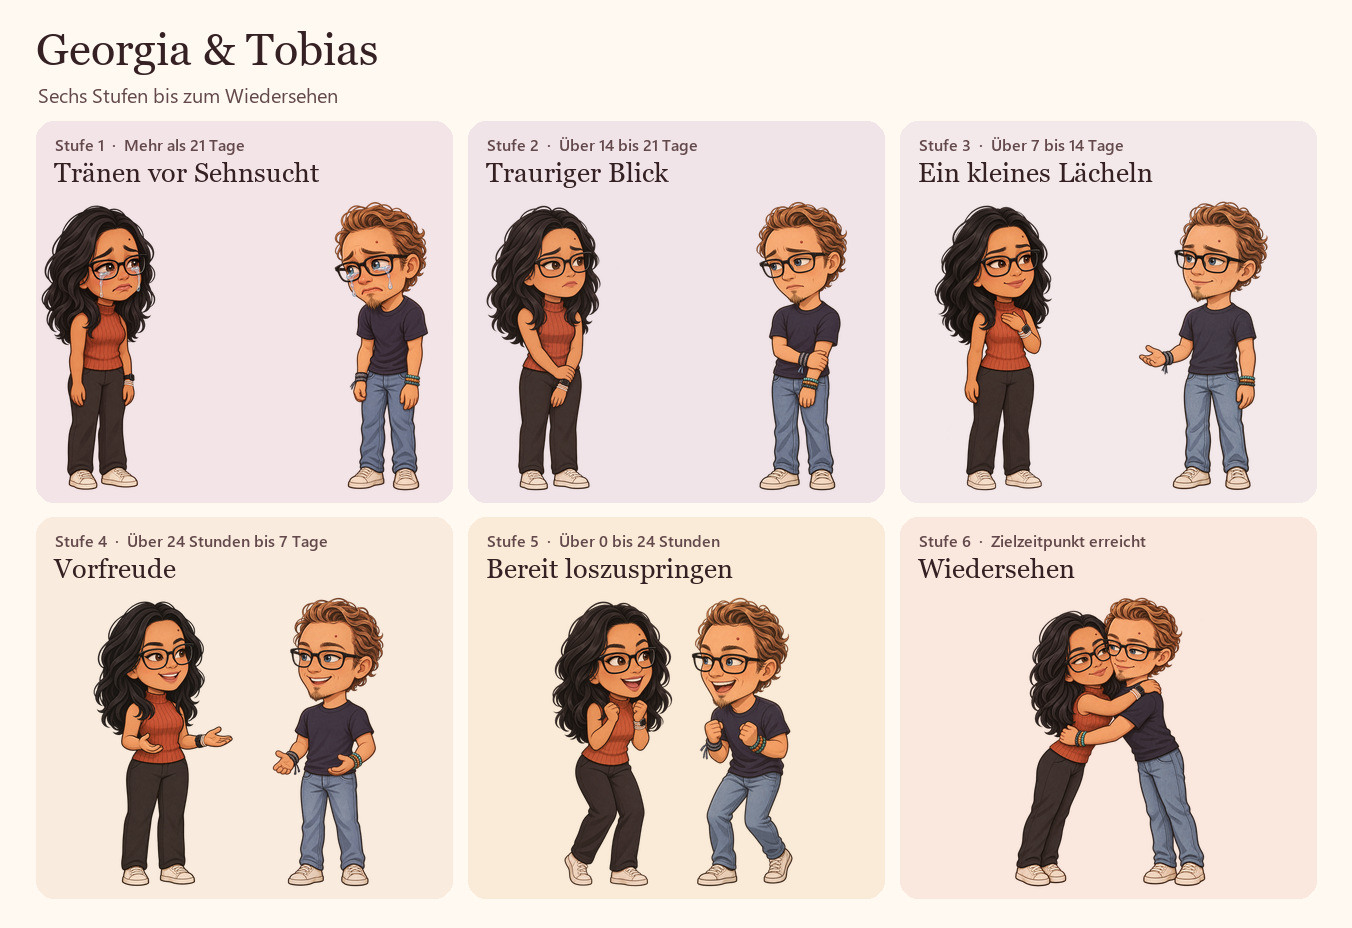
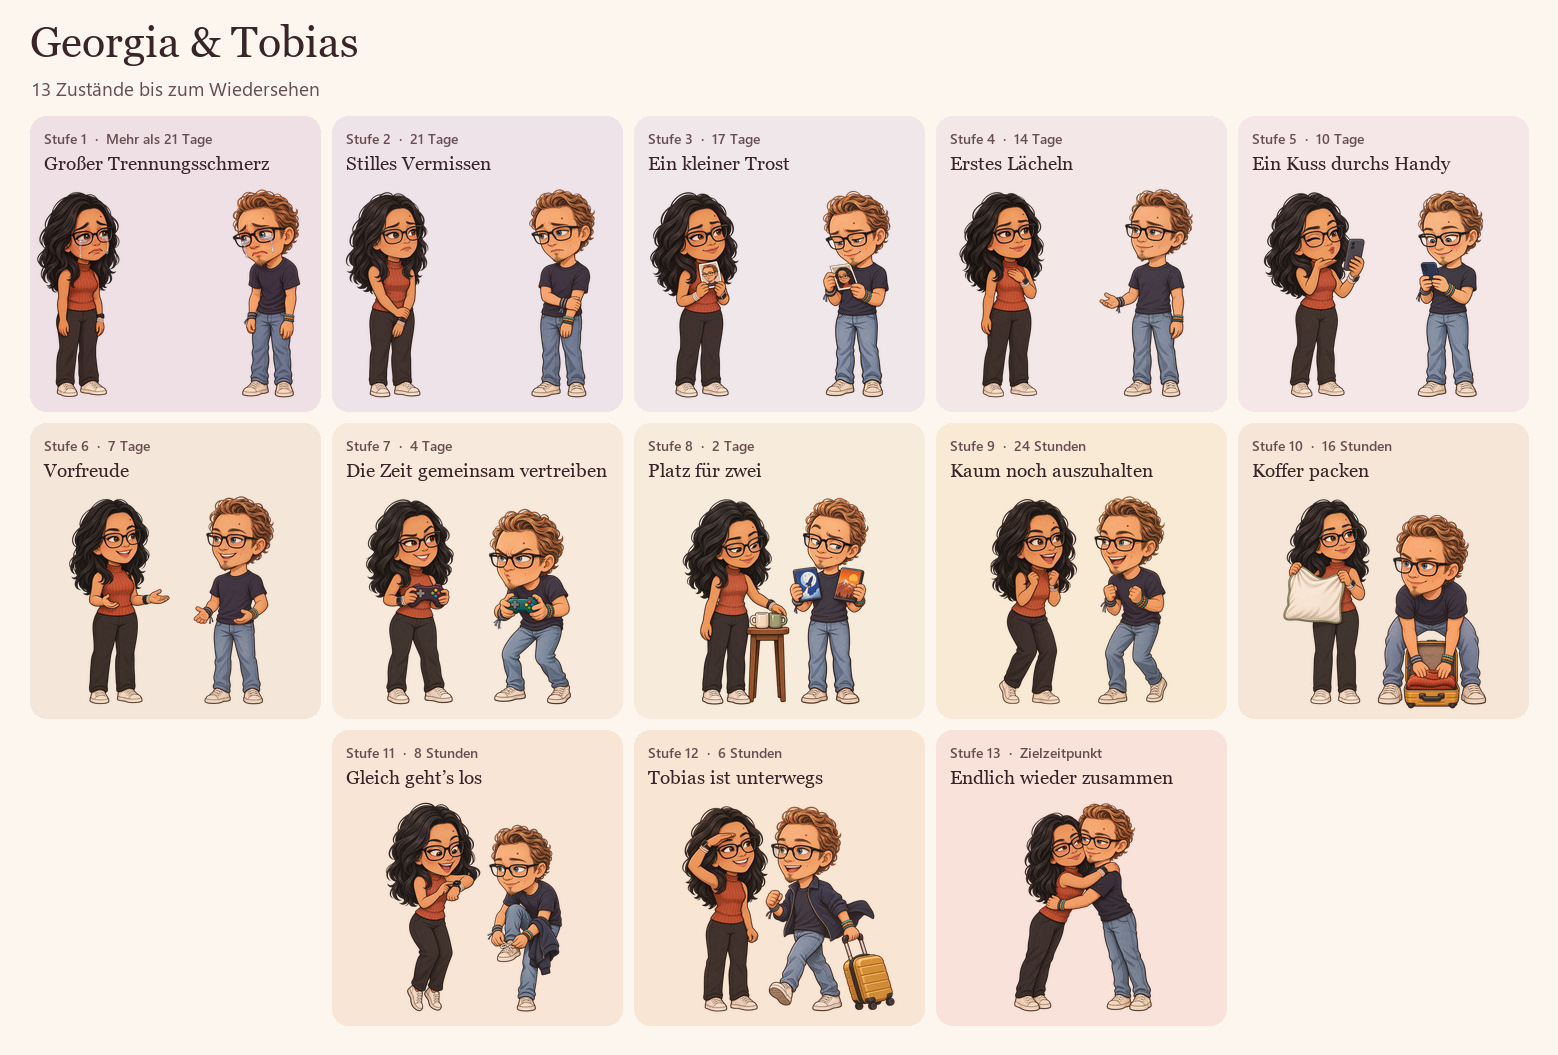
Extend reunion countdown to 13 illustration stages (#5)

diff --git a/assets/characters/README.md b/assets/characters/README.md
@@ -1,29 +1,39 @@
 # Georgia und Tobias
 
-Die elf transparenten PNGs in `stages/` verwenden die freigegebenen Figuren Georgia G3-A und Tobias T1-A aus `references/`. Die [gemeinsame Vorschau](vorschau.jpg) zeigt die sechs Stufen aus [Issue #2](https://github.com/venomenon328/ldr-countdown/issues/2).
+Die [gemeinsame Vorschau](vorschau.jpg) zeigt die 13 Zustände aus [Issue #5](https://github.com/venomenon328/ldr-countdown/issues/5). Für die Einzelbilder in `stages/` gilt der Dateistamm aus der Tabelle mit `-georgia.png` oder `-tobias.png` als Endung.
 
-| Stufe | Restzeit | Dateien |
-| --- | --- | --- |
-| 1 | Mehr als 21 Tage | `01-georgia.png`, `01-tobias.png` |
-| 2 | Mehr als 14 bis einschließlich 21 Tage | `02-georgia.png`, `02-tobias.png` |
-| 3 | Mehr als 7 bis einschließlich 14 Tage | `03-georgia.png`, `03-tobias.png` |
-| 4 | Mehr als 24 Stunden bis einschließlich 7 Tage | `04-georgia.png`, `04-tobias.png` |
-| 5 | Mehr als 0 bis einschließlich 24 Stunden | `05-georgia.png`, `05-tobias.png` |
-| 6 | Zielzeitpunkt erreicht oder überschritten | `06-wiedersehen.png` |
+Jede Stufe beginnt beim Erreichen ihrer Schwelle und läuft bis zum Beginn der nächsten. Maßgeblich ist die ungerundete Restzeit, ein Tag entspricht 24 Stunden.
+
+| Stufe | Eintritt bei Restzeit | Motiv | Dateistamm bzw. Paarbild |
+| --- | --- | --- | --- |
+| 1 | Mehr als 21 Tage | Großer Trennungsschmerz | `01` |
+| 2 | 21 Tage | Stilles Vermissen | `02` |
+| 3 | 17 Tage | Ein kleiner Trost | `03-foto` |
+| 4 | 14 Tage | Erstes Lächeln | `03` |
+| 5 | 10 Tage | Ein Kuss durchs Handy | `05-handykuss` |
+| 6 | 7 Tage | Vorfreude | `04` |
+| 7 | 4 Tage | Die Zeit gemeinsam vertreiben | `07-controller` |
+| 8 | 2 Tage | Platz für zwei | `08-platz-fuer-zwei` |
+| 9 | 24 Stunden | Kaum noch auszuhalten | `05` |
+| 10 | 16 Stunden | Koffer packen | `10-kofferpacken` |
+| 11 | 8 Stunden | Gleich geht’s los | `11-aufbruch` |
+| 12 | 6 Stunden | Tobias ist unterwegs | `12-anreise` |
+| 13 | 0 oder abgelaufen | Endlich wieder zusammen | `06-wiedersehen.png` |
 
 ## Platzierung auf der Website
 
-Alle PNGs sind 432 × 624 px groß. Die Koordinaten beziehen sich auf die linke obere Bildecke. Georgia steht links und Tobias rechts. Beide Einzelbilder werden am Fußpunkt `(216, 602)` positioniert. Beim Stufenwechsel bleiben die beiden Fußpunkte an ihrer aktuellen Position.
+Alle Stufen-PNGs sind 432 × 624 px groß. Die Koordinaten beziehen sich auf die linke obere Bildecke. Georgia steht links und Tobias rechts. Beide Einzelbilder werden am Fußpunkt `(216, 602)` positioniert. Bei angehobenem Fuß zählt der Bodenkontakt des Standbeins. Beim Stufenwechsel bleiben die beiden Fußpunkte an ihrer aktuellen Position.
 
 Die Paarpose wird mit `(216, 602)` am Treffpunkt ausgerichtet. Dort liegen die Fußpunkte Georgias und Tobias’ im Paarbild bei `(80, 602)` und `(351, 602)`. Die beiden Einzelfiguren laufen bis zu diesen Positionen. Relativ zum Treffpunkt sind das horizontal `−136` und `+135` Bildpixel, jeweils multipliziert mit demselben Skalierungsfaktor wie die Bilder. Auch an diesen Positionen liegt zwischen den Silhouetten der Einzelfiguren ein sichtbarer Abstand.
 
 ## Bildgenerierung
 
-Beide freigegebenen PNGs dienten in jeder ImageGen-Anfrage als direkte visuelle Referenzen. Die Prompts verlangten Ganzkörperzeichnungen in warmer, fein konturierter Chibi-Zeichenweise mit derselben Kleidung, demselben Schmuck, denselben Proportionen, leichtem Lichteinfall von links oben und echter Transparenz.
+[Georgia G3-A](references/georgia.png) und [Tobias T1-A](references/tobias.png) dienten dem integrierten ImageGen in jeder neuen Anfrage als direkte visuelle Referenzen. Eine vorhandene Einzelpose gab jeweils Zeichenstil, Proportionen und Blickrichtung vor. Die Prompts verlangten fein konturierte Ganzkörperzeichnungen mit derselben Kleidung und denselben Accessoires, Lichteinfall von links oben, echte Transparenz, vollständig sichtbare Requisiten und schriftfreie Oberflächen. Die Zeichnungen wurden anschließend im PNG-Rahmen am Fußpunkt ausgerichtet.
 
-- **Stufe 1** · Gesenkte Schultern, gesenkter Mund und große Tränen auf beiden Wangen.
-- **Stufe 2** · Trockene Augen, trauriger Blick zum Gegenüber und zurückhaltende, geschlossene Haltung.
-- **Stufe 3** · Wehmütige Brauen, ein kleines Lächeln und gelockerte Schultern. Georgia legt eine Hand ans Herz, Tobias öffnet eine Hand auf Hüfthöhe.
-- **Stufe 4** · Breites Lächeln, offene Schultern und einladende Hände.
-- **Stufe 5** · Strahlende Augen, gebeugte Knie und erwartungsvoll angewinkelte Arme. Die Hände bleiben nah am eigenen Körper.
-- **Stufe 6** · Wange an Wange, Georgias Arm um Tobias’ Schulter und sein Arm um ihre Taille. Beide neigen sich von ihren getrennten Standpunkten zur Mitte. Das erste Bild der Umarmung diente zusätzlich als Referenz für Mimik und Armhaltung.
+- **Stufe 3** · Georgia drückt ein Foto von Tobias ans Herz. Tobias betrachtet Georgias Foto und streicht mit dem Daumen über den Rand. Beide Fotos zeigen die gezeichneten Figuren.
+- **Stufe 5** · Georgia schickt einen Handkuss in die Handykamera. Tobias schaut errötend aufs Display.
+- **Stufe 7** · Beide halten einen Controller. Georgia grinst siegessicher, Tobias beugt sich vor Konzentration nach vorn.
+- **Stufe 8** · Georgia stellt eine grüne neben eine cremefarbene Tasse. Tobias vergleicht zwei Filmhüllen mit einer Rakete und einer Berglandschaft als Bildmotive.
+- **Stufe 10** · Georgia schüttelt ein zweites Kopfkissen links vor ihrem Körper auf. Tobias drückt den letzten gefalteten Pulli in den offenen Rollkoffer zwischen seinen Schuhen.
+- **Stufe 11** · Georgia schaut auf ihre Armbanduhr und hebt die Fersen. Tobias bindet im Stehen einen Schuh und trägt die Jacke über dem Arm.
+- **Stufe 12** · Georgia hält lächelnd Ausschau und beschattet mit der Hand ihre Augen. Tobias zieht den geschlossenen ockerfarbenen Rollkoffer im Schritt hinter sich her, die offene Jacke weht nach hinten.

diff --git a/README.md b/README.md
@@ -19,4 +19,4 @@ Mit `python -m http.server 8000` lässt sich die Seite aus dem Repository über 
 
 Die Logiktests laufen mit `node --test`.
 
-Für die Illustration liefert `getCountdown` aus `countdown.mjs` die Bildstufe `stage` (1 bis 6) und den gemeinsamen Fortschritt `progress` (0 bis 1) aus derselben Restzeit. Die fünf Figurenpaare und die Wiedersehenspose liegen unter `assets/characters/stages/`. Die Seeterrasse liegt in zwei Bildformaten unter `assets/scene/`. Die [Figuren-Dokumentation](assets/characters/README.md#platzierung-auf-der-website) beschreibt die Fußpunkte, an denen die Wege der beiden Figuren enden.
+Für die Illustration liefert `getCountdown` aus `countdown.mjs` die Bildstufe `stage` (1 bis 13) und den gemeinsamen Fortschritt `progress` (0 bis 1) aus derselben Restzeit. Die zwölf Figurenpaare und die Wiedersehenspose liegen unter `assets/characters/stages/`. Die Seeterrasse liegt in zwei Bildformaten unter `assets/scene/`. Die [Figuren-Dokumentation](assets/characters/README.md) enthält die Stufentabelle, die Vorschau und die Fußpunkte, an denen die Wege der beiden Figuren enden.
